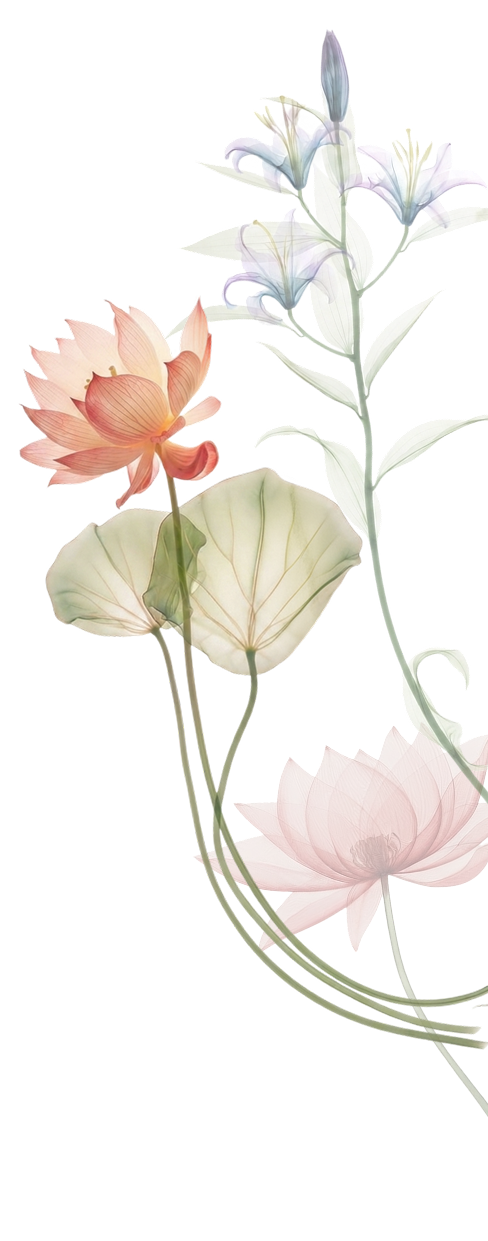
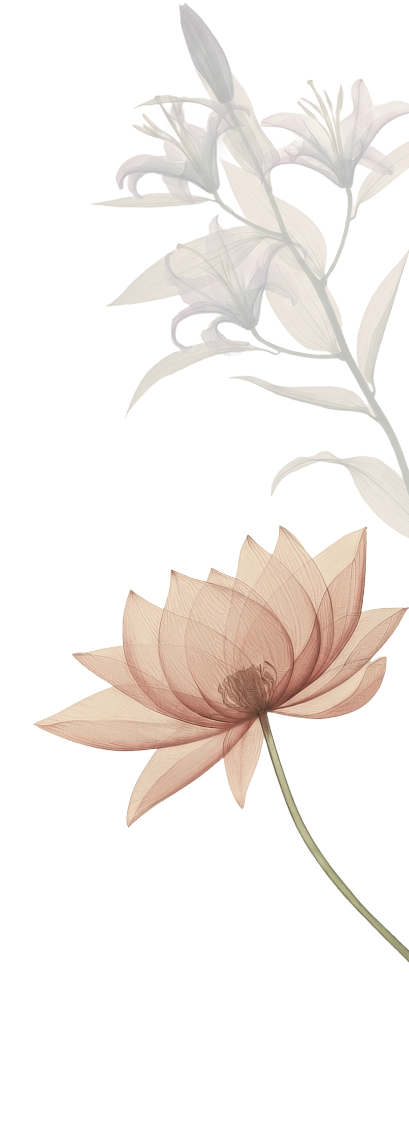
hero수정

diff --git a/css/home.css b/css/home.css
@@ -187,9 +187,9 @@ p {
 .hero_right_img {
   position: absolute;
   left: 1432px;
-  top: 21px;
-  width: 488px;
-  height: 1241px;
+  top: 31px;
+  width: 463.6px;
+  height: 1178.95px;
 }
 
 /* ---- 헤드카피 + 제품 이미지 ---- */
